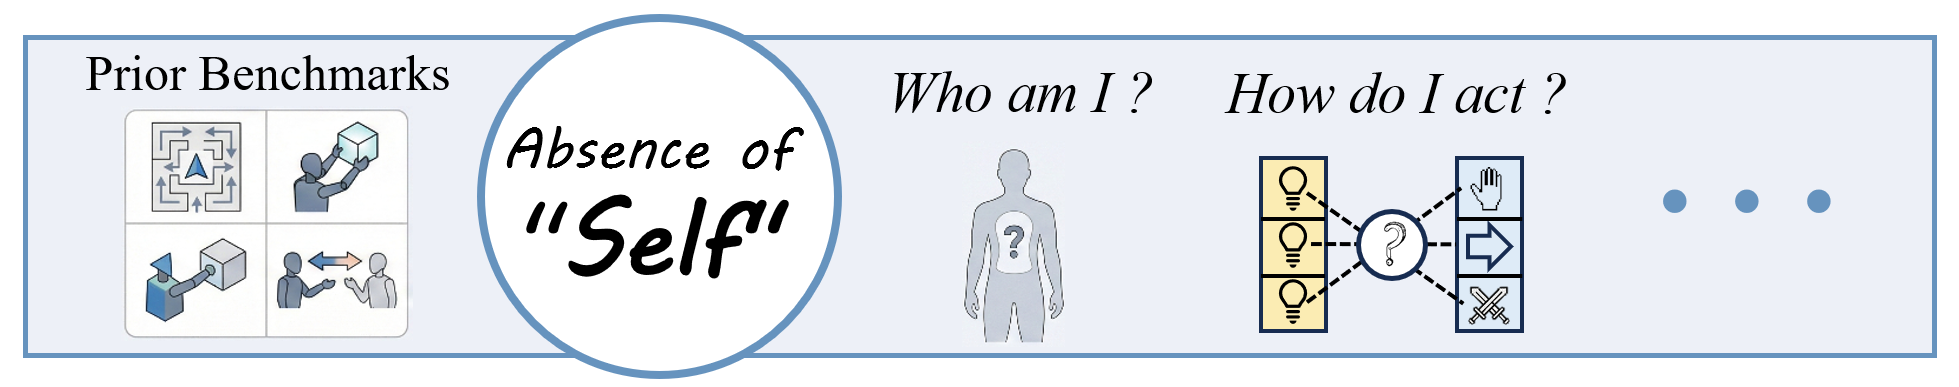
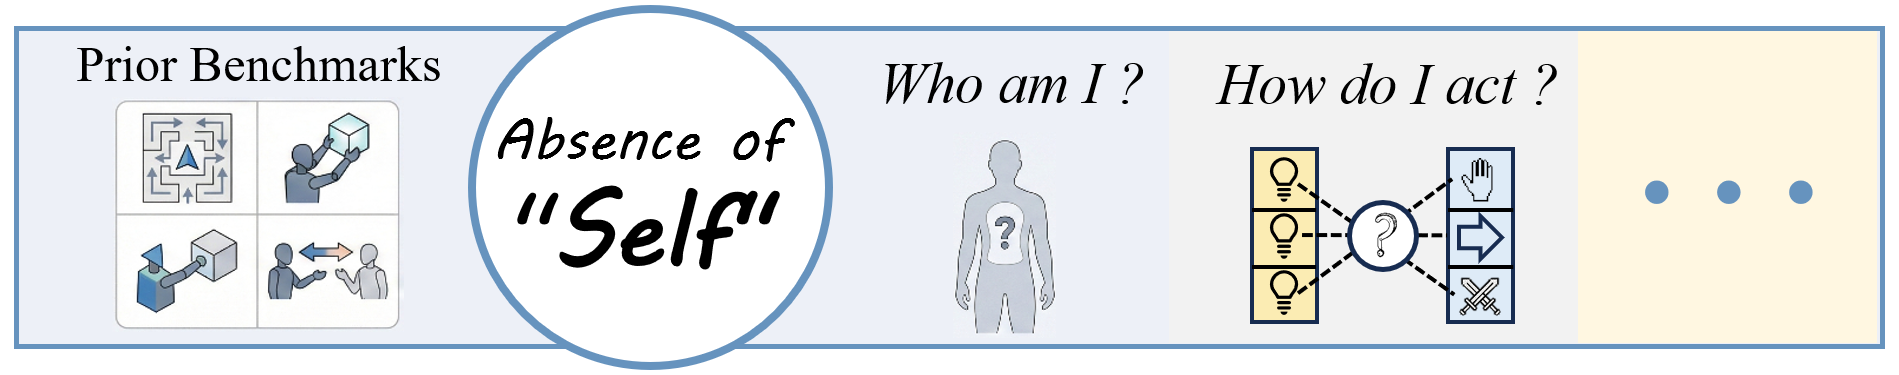
[Modify] cog bg

diff --git a/sections/overview.html b/sections/overview.html
@@ -76,7 +76,7 @@
                     <td>
                         <div class="columns is-vcentered">
                             <div class="column is-6">
-                                <img src="static/images/placeholder.png"
+                                <img src="static/images/CDT.jpg"
                                     style="border-radius:8px;">
                             </div>
                             <div class="column is-6">